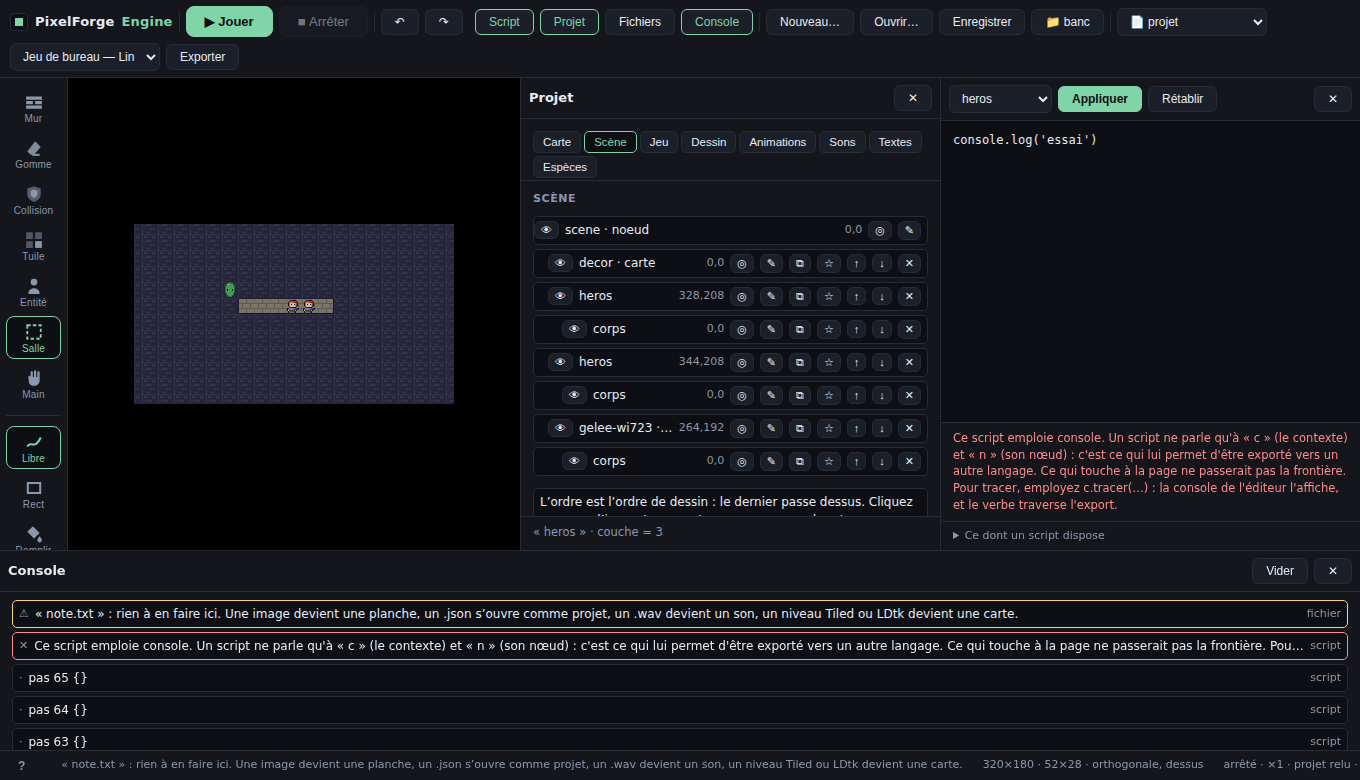
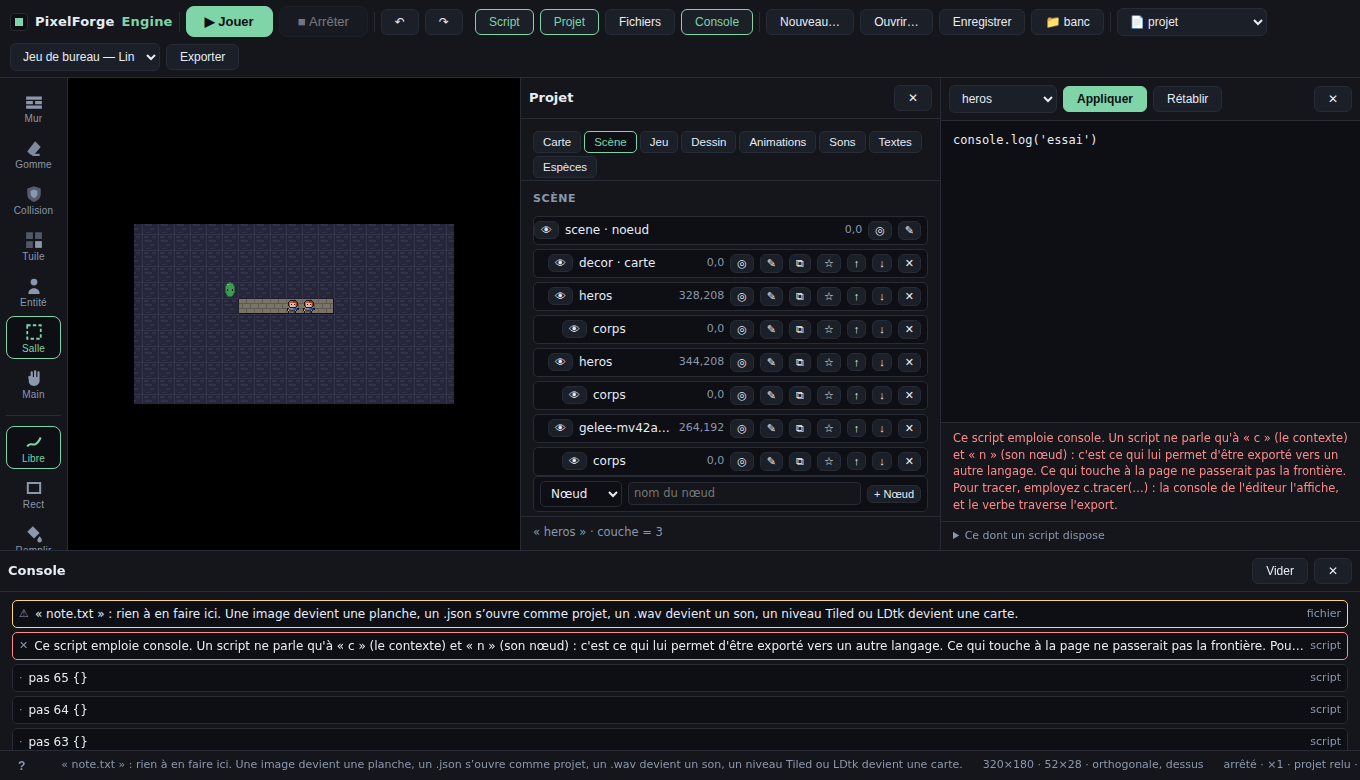
L'arbre compose enfin : créer un nœud, et le glisser sous un autre
L'arbre de scène recevait ce que la palette y posait — des entités — et rien
d'autre. Aucun moyen de créer un nœud de groupe pour ranger douze pièges, une
zone posée à la main, une caméra à soi. Et l'on pouvait ordonner des frères,
jamais changer de famille : un corps de collision ne pouvait pas être attaché
à un sprite après coup. Un arbre qui ne compose pas n'est pas un arbre de
scène, c'est une liste.

« + Nœud » crée l'un des cinq types du moteur sous le nœud choisi, ou sous la
racine. Le squelette vient de `creerNoeud` et non d'une table recopiée dans le
panneau : la boîte de huit pixels d'un corps est décidée à un seul endroit, et
le prochain type ajouté au moteur n'aura rien à déclarer ici.

Glisser une ligne sur une autre la lui donne pour parent, avec tout ce qu'elle
porte. Le liseré dit quelle ligne sera la mère — sans lui on lâche au jugé et
l'on se trompe d'une ligne.

Trois gestes sont refusés, et le refus vit dans le geste, pas dans l'interface
— celle-ci ne doit pas être le seul endroit qui sait qu'un nœud ne peut pas
devenir son propre descendant. Sur lui-même : rien. Sur l'un de ses propres
descendants : la scène se détacherait d'elle-même, et le parcours qui la
dessine tournerait en rond jusqu'à épuiser la pile. La racine ne se reparente
pas, elle EST la scène. Reposer un nœud chez son parent actuel ne fait rien non
plus, sinon le journal garderait un geste qui ne change rien.

Le geste signale son refus en rendant le projet TEL QUEL — l'appelant compare
[…]

Changed region(s): [[0.4015, 0.6154, 0.6794, 0.6769], [0.7721, 0.1231, 0.8956, 0.1538], [0.4632, 0.5231, 0.4941, 0.5538]]

diff --git a/src/editeur/projet-panneau.ts b/src/editeur/projet-panneau.ts
@@ -17,6 +17,7 @@ import {
   ajouterMusiqueProjet, reglerMusiqueProjet, retirerMusiqueProjet,
   ajouterSonProjet, retirerSonProjet, ajouterAnimationProjet, retirerAnimationProjet,
   reglerNoeudProjet, retirerNoeudProjet, decalerNoeudProjet, dupliquerNoeudProjet,
+  ajouterNoeudProjet, reparenterNoeudProjet, TYPES_NOEUD,
   poserAssemblageProjet, retirerAssemblageProjet,
   reglerReglesProjet,
 } from './projet-neuf.ts'
@@ -129,6 +130,13 @@ const choix = (
   return s
 }
 
+/** Le noeud d'un arbre serialise portant cet identifiant, ou null. */
+function trouverNoeud(n: NoeudSerialise, id: string): NoeudSerialise | null {
+  if (n.id === id) return n
+  for (const e of n.enfants) { const r = trouverNoeud(e, id); if (r) return r }
+  return null
+}
+
 function bloc(parent: HTMLElement, titre: string): HTMLElement {
   const d = document.createElement('div')
   d.className = 'bloc'
@@ -181,6 +189,8 @@ export class PanneauProjet {
   private noeudDesigne = ''
   /** Le dernier noeud que l'inspecteur a MONTRE : voir `blocInspecteur`. */
   private noeudInspecte = ''
+  /** Le type que « + Nœud » creera. Il se garde d'un affichage a l'autre. */
+  private typeNeuf = 'noeud'
 
   constructor(
     elements: {
@@ -896,6 +906,47 @@ export class PanneauProjet {
       const ligne = document.createElement('div')
       ligne.className = `ligne${n.id === this.noeudDesigne ? ' actif' : ''}`
       ligne.style.paddingLeft = `${profondeur * 14}px`
+      /*
+       * GLISSER UN NOEUD SUR UN AUTRE LE LUI DONNE POUR PARENT.
+       *
+       * C'est le geste de tous les arbres de scene, et c'est ce qui manquait
+       * pour que celui-ci en soit un : on pouvait ordonner des freres, jamais
+       * changer de famille. Sans lui, un corps de collision ne pouvait pas
+       * etre attache a un sprite apres coup, et rien ne permettait de ranger
+       * douze pieges sous un noeud « pieges ».
+       *
+       * Le refus vit dans le geste (voir `reparenterNoeudProjet`) et non ici :
+       * l'interface ne doit pas etre le seul endroit qui sait qu'un noeud ne
+       * peut pas devenir son propre descendant.
+       */
+      ligne.draggable = true
+      ligne.addEventListener('dragstart', (e) => {
+        e.dataTransfer?.setData('text/plain', n.id)
+        if (e.dataTransfer) e.dataTransfer.effectAllowed = 'move'
+      })
+      ligne.addEventListener('dragover', (e) => {
+        e.preventDefault()
+        ligne.classList.add('cible')
+      })
+      ligne.addEventListener('dragleave', () => ligne.classList.remove('cible'))
+      ligne.addEventListener('drop', (e) => {
+        e.preventDefault()
+        ligne.classList.remove('cible')
+        const tire = e.dataTransfer?.getData('text/plain') ?? ''
+        if (!tire || tire === n.id) return
+        // Le projet de depart est garde : le geste rend CE MEME objet quand
+        // il refuse, et c'est ainsi qu'on sait qu'il a refuse. Le comparer a
+        // un `frais()` neuf ne dirait jamais rien — deux serialisations
+        // successives sont deux objets differents.
+        const base = this.frais()
+        const apres = reparenterNoeudProjet(base, nomScene, tire, n.id)
+        if (apres === base) {
+          this.crochets.dire(`« ${n.nom} » ne peut pas accueillir ce nœud : `
+            + 'un nœud ne devient pas l’enfant de ce qu’il porte.')
+          return
+        }
+        this.appliquer(apres, `nœud attaché à « ${n.nom} »`)
+      })
       const oeil = bouton(n.visible ? '👁' : '·',
         'Montrer ou cacher — un nœud caché ne se dessine pas, lui et les siens', () => {
           this.appliquer(reglerNoeudProjet(this.frais(), nomScene, n.id, { visible: !n.visible }),
@@ -962,10 +1013,49 @@ export class PanneauProjet {
     ligneDe(scene.racine, 0, true)
     d.appendChild(liste)
 
+    /*
+     * CREER un noeud. L'arbre ne recevait que ce que la palette y posait —
+     * des entites. Un projet ne pouvait donc pas avoir un noeud de groupe
+     * pour ranger ses pieges, ni une zone posee a la main, ni une camera.
+     */
+    const neuf = document.createElement('div')
+    neuf.className = 'ligne'
+    const type = document.createElement('select')
+    for (const t of TYPES_NOEUD) {
+      const o = document.createElement('option')
+      o.value = t.id
+      o.textContent = t.nom
+      o.title = t.note
+      type.appendChild(o)
+    }
+    type.value = this.typeNeuf
+    type.addEventListener('change', () => {
+      this.typeNeuf = type.value
+      type.title = TYPES_NOEUD.find((t) => t.id === type.value)?.note ?? ''
+    })
+    type.title = TYPES_NOEUD.find((t) => t.id === this.typeNeuf)?.note ?? ''
+    const nomNeuf = document.createElement('input')
+    nomNeuf.placeholder = 'nom du nœud'
+    nomNeuf.className = 'nom'
+    const sous = this.noeudDesigne
+      ? (trouverNoeud(scene.racine, this.noeudDesigne)?.nom ?? scene.racine.nom)
+      : scene.racine.nom
+    neuf.append(type, nomNeuf,
+      bouton('+ Nœud', `Ajouter sous « ${sous} » — le nœud choisi, ou la racine`, () => {
+        const cible = this.noeudDesigne && trouverNoeud(scene.racine, this.noeudDesigne)
+          ? this.noeudDesigne : scene.racine.id
+        this.appliquer(
+          ajouterNoeudProjet(this.frais(), nomScene, cible, type.value,
+            nomNeuf.value || type.value),
+          `Nœud « ${nomNeuf.value || type.value} » ajouté sous « ${sous} »`)
+      }))
+    d.appendChild(neuf)
+
     const note = document.createElement('p')
     note.className = 'ligne menu'
     note.textContent = 'L’ordre est l’ordre de dessin : le dernier passe dessus. '
-      + 'Cliquez un nom : l’inspecteur montre ce que ce nœud porte.'
+      + 'Cliquez un nom : l’inspecteur montre ce que ce nœud porte. '
+      + 'Glissez une ligne sur une autre : elle lui devient enfant.'
     d.appendChild(note)
 
     this.blocInspecteur(p, nomScene, scene.racine)
@@ -1026,12 +1116,7 @@ export class PanneauProjet {
    * defait au Ctrl+Z comme le reste — voir le journal.
    */
   private blocInspecteur(p: ProjetSerialise, nomScene: string, racine: NoeudSerialise): void {
-    const trouver = (n: NoeudSerialise): NoeudSerialise | null => {
-      if (n.id === this.noeudDesigne) return n
-      for (const e of n.enfants) { const r = trouver(e); if (r) return r }
-      return null
-    }
-    const n = trouver(racine)
+    const n = this.noeudDesigne ? trouverNoeud(racine, this.noeudDesigne) : null
     const d = bloc(this.corps, n ? `Inspecteur · ${n.nom}` : 'Inspecteur')
     if (!n) {
       const vide = document.createElement('p')

diff --git a/src/editeur/projet-neuf.ts b/src/editeur/projet-neuf.ts
@@ -1,9 +1,10 @@
 import {
-  VERSION_FORMAT, decrirePlanche, serialiserAnimation, serialiserCarte,
+  VERSION_FORMAT, decrirePlanche, serialiserAnimation, serialiserCarte, serialiserNoeud,
   type ProjetSerialise, type CarteSerialisee, type NoeudSerialise, type PlancheSerialisee,
   type DeclencheurSerialise,
 } from '../export/format.ts'
 import { matiereEnCaractere, caractereEnMatiere, VIDE } from '../tuiles/tilemap.ts'
+import { creerNoeud } from '../scene/noeud.ts'
 import { ORTHO_DESSUS, ORTHO_COTE, ISO, type Projection } from '../noyau/projection.ts'
 import { espece, type Espece } from '../runtime/entites.ts'
 import { musique as musiqueFabrique, voie as voieFabrique, type Voie } from '../runtime/musique.ts'
@@ -1065,6 +1066,88 @@ export function reglerNoeudProjet(
       ? { ...n.proprietes, ...changements.proprietes }
       : n.proprietes,
   })))
+}
+
+/**
+ * Les types de noeud qu'on peut ajouter a la main, et ce qu'ils font.
+ *
+ * Ils existent tous dans le moteur depuis longtemps ; ce qui manquait, c'est
+ * de pouvoir en CREER un. L'arbre ne recevait que ce que la palette y posait
+ * — des entites —, si bien qu'un projet ne pouvait pas avoir un noeud de
+ * groupe pour ranger ses pieges, ni une zone posee a la main, ni une camera a
+ * soi. Un arbre de scene qui ne compose pas n'est pas un arbre de scene.
+ */
+export const TYPES_NOEUD = [
+  { id: 'noeud', nom: 'Nœud', note: 'Un nœud nu : il ne dessine rien, il RANGE. Le déplacer déplace tout ce qu’il porte.' },
+  { id: 'sprite', nom: 'Sprite', note: 'Un dessin d’une planche, animable.' },
+  { id: 'corps', nom: 'Corps', note: 'Une boîte de collision : c’est elle qui se cogne au décor.' },
+  { id: 'zone', nom: 'Zone', note: 'Un rectangle qui se sait touché — un rôle, pas un dessin.' },
+  { id: 'camera', nom: 'Caméra', note: 'Un point de vue, avec ses marges.' },
+] as const
+
+/** Ajoute un noeud neuf sous un parent. Le parent inconnu : sous la racine. */
+export function ajouterNoeudProjet(
+  p: ProjetSerialise, nomScene: string, idParent: string, type: string, nom: string,
+): ProjetSerialise {
+  const propre = nom.trim() || type
+  // Le squelette vient du MOTEUR et non d'une table ecrite ici : les valeurs
+  // par defaut d'un corps — sa boite de huit pixels — vivent dans
+  // `creerNoeud`, et les recopier ferait deux verites pour une.
+  const neuf = serialiserNoeud(creerNoeud(type as Parameters<typeof creerNoeud>[0], propre))
+  const sous = (n: NoeudSerialise): NoeudSerialise => (n.id === idParent
+    ? { ...n, enfants: [...n.enfants, neuf] }
+    : { ...n, enfants: n.enfants.map(sous) })
+  return surScene(p, nomScene, (racine) => (
+    idParent && trouverDans(racine, idParent) ? sous(racine)
+      : { ...racine, enfants: [...racine.enfants, neuf] }))
+}
+
+/** Le noeud d'un arbre serialise portant cet identifiant, ou null. */
+function trouverDans(n: NoeudSerialise, id: string): NoeudSerialise | null {
+  if (n.id === id) return n
+  for (const e of n.enfants) { const r = trouverDans(e, id); if (r) return r }
+  return null
+}
+
+/** Vrai si `id` est quelque part SOUS `n` — lui-meme compris. */
+function contient(n: NoeudSerialise, id: string): boolean {
+  return trouverDans(n, id) !== null
+}
+
+/**
+ * Change le PARENT d'un noeud : le geste qui fait d'un arbre un arbre.
+ *
+ * ## Ce qui est refuse, et pourquoi
+ *
+ * Deposer un noeud sur lui-meme, ou sur l'un de ses propres descendants,
+ * detacherait tout le sous-arbre de la scene : il deviendrait son propre
+ * ancetre, et le parcours qui le dessine tournerait en rond jusqu'a epuiser
+ * la pile. Le geste ne fait alors RIEN — mieux vaut un glisser sans effet
+ * qu'une scene qu'on ne peut plus ouvrir.
+ *
+ * La racine ne se reparente pas non plus : elle est la scene.
+ */
+export function reparenterNoeudProjet(
+  p: ProjetSerialise, nomScene: string, id: string, idParent: string,
+): ProjetSerialise {
+  const scene = p.scenes.find((q) => q.nom === nomScene)
+  if (!scene || id === idParent || id === scene.racine.id) return p
+  const noeud = trouverDans(scene.racine, id)
+  const parent = trouverDans(scene.racine, idParent)
+  if (!noeud || !parent) return p
+  // Son propre descendant : voir plus haut.
+  if (contient(noeud, idParent)) return p
+  // Deja son parent : rien a faire, et surtout pas un geste dans le journal.
+  if (parent.enfants.some((e) => e.id === id)) return p
+  const copie = structuredClone(noeud)
+  const elaguer = (n: NoeudSerialise): NoeudSerialise => ({
+    ...n,
+    enfants: n.enfants.filter((e) => e.id !== id).map(elaguer),
+  })
+  const greffer = (n: NoeudSerialise): NoeudSerialise => (n.id === idParent
+    ? { ...n, enfants: [...n.enfants, copie] }
+    : { ...n, enfants: n.enfants.map(greffer) })
+  return surScene(p, nomScene, (racine) => greffer(elaguer(racine)))
 }
 
 /**

diff --git a/src/editeur/style.css b/src/editeur/style.css
@@ -295,6 +295,10 @@ button.lien:hover { color: var(--accent); }
 .champs input[type="checkbox"] { width: 14px; height: 14px; justify-self: start; }
 .champs input:disabled { color: var(--dim); background: transparent; }
 
+/* L'arbre de scene : la ligne qu'on survole en glissant est la FUTURE mere.
+   Sans ce lisere, on lache au jugé et l'on se trompe d'une ligne. */
+.ligne.cible { border-color: var(--accent); background: rgba(127, 212, 168, .10); }
+
 /* La console vit EN BAS, sur toute la largeur : c'est sa place dans les
    moteurs, et la colonne de droite reste aux panneaux qu'on lit en meme
    temps qu'elle. Une hauteur fixe et non extensible : une console qui grandit

diff --git a/README.md b/README.md
@@ -573,6 +573,29 @@ le nœud — fini de chercher une entité à la souris —, **⧉** la duplique 
 des identifiants neufs, une case à côté ; et saisir une entité dans la vue
 la **surligne** dans l'arbre. La vue et l'arbre parlent du même nœud.
 
+### L'arbre compose : créer un nœud, changer son parent
+
+![L'arbre : « + Nœud », et une ligne qu'on glisse sur une autre](docs/arbre-compose.png)
+
+L'arbre **recevait** ce que la palette y posait — des entités — et rien
+d'autre. On ne pouvait pas créer un nœud de groupe pour ranger douze pièges,
+ni une zone posée à la main, ni une caméra à soi ; et l'on pouvait ordonner des
+frères, jamais changer de famille. Un arbre qui ne compose pas n'est pas un
+arbre de scène.
+
+**+ Nœud** crée l'un des cinq types du moteur — nœud nu, sprite, corps, zone,
+caméra — sous le nœud choisi, ou sous la racine. Le squelette vient du moteur
+et non d'une table recopiée dans le panneau : la boîte de huit pixels d'un
+corps est décidée à un seul endroit.
+
+**Glisser une ligne sur une autre** la lui donne pour parent, avec tout ce
+qu'elle porte. Trois gestes sont refusés, et le refus vit dans le geste et non
+dans l'interface : un nœud sur lui-même, un nœud sur l'un de ses propres
+descendants — la scène se détacherait d'elle-même et le parcours qui la dessine
+tournerait en rond jusqu'à épuiser la pile —, et la racine, qui *est* la scène.
+Reposer un nœud chez son parent actuel ne fait rien non plus : sinon le journal
+garderait un geste qui ne change rien.
+
 ### L'inspecteur : ce qu'un nœud porte
 
 ![L'inspecteur : l'arbre, et sous lui ce que le nœud choisi porte](docs/inspecteur.png)
